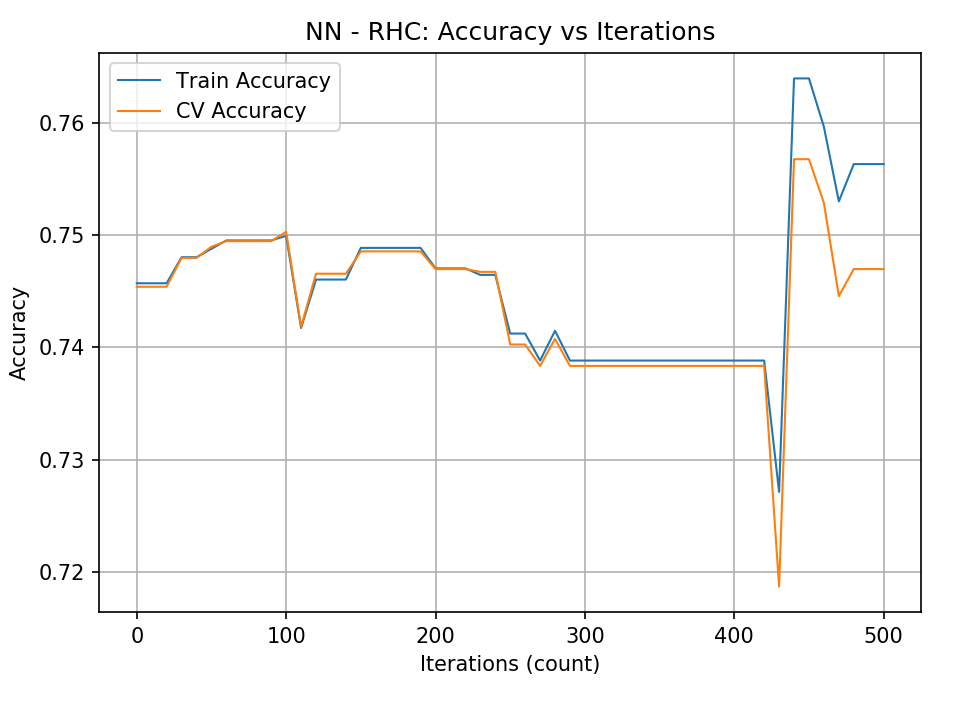
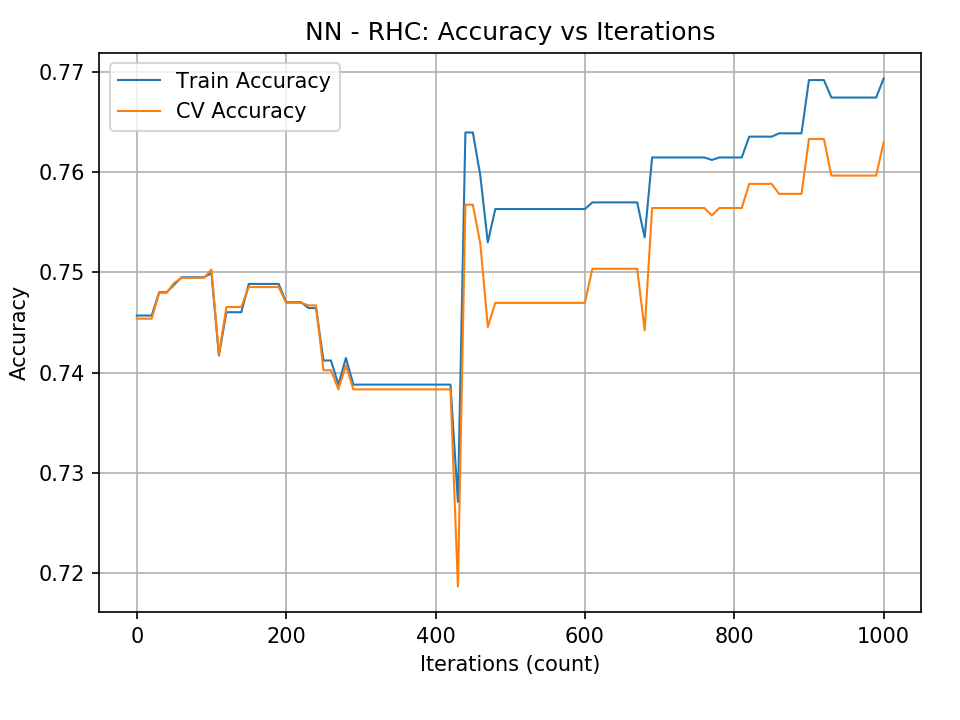
fixing plots

diff --git a/solution/copied_code/plotting.py b/solution/copied_code/plotting.py
@@ -183,7 +183,7 @@ def plot_mimic_data(problem_name, mimic_files, output_dir, nn_curve=False):
 
             if nn_curve:
                 # For the NN problem convergence happens relatively early (except for SA)
-                main_df = main_df[main_df.index <= 500]
+                main_df = main_df[main_df.index <= 1000]
                 p = plot_data('{} - MIMIC {} {}: {} vs Iterations'.format(problem_name, samples, keep,
                                                                           y.capitalize()), main_df[y],
                               sorted(mimic_files[samples][keep].keys()),
@@ -247,7 +247,7 @@ def plot_ga_data(problem_name, ga_files, output_dir, nn_curve=False):
             if nn_curve:
                 # For the NN problem convergence happens relatively early (except for SA)
                 main_df[mate] = reduce(lambda x, y: pd.merge(x, y, on='iterations'), main_df[mate])
-                main_df[mate] = main_df[mate][main_df[mate].index <= 500]
+                main_df[mate] = main_df[mate][main_df[mate].index <= 1000]
                 p = plot_data('{} - GA {} {}: {} vs Iterations'.format(problem_name, pop, mate,
                                                                        y_label), main_df[mate],
                               sorted(ga_files[pop][mate].keys()),
@@ -348,7 +348,7 @@ def plot_rhc_data(problem_name, rhc_files, output_dir, nn_curve=False):
 
     if nn_curve:
         # For the NN problem convergence happens relatively early (except for SA)
-        main_df = main_df[main_df.index <= 500]
+        main_df = main_df[main_df.index <= 1000]
         p = plot_data('{} - RHC: {} vs Iterations'.format(problem_name, y_label), main_df,
                       None, nn_curve=nn_curve,
                       y_label=y_label)
@@ -394,7 +394,7 @@ def plot_backprop_data(problem_name, backprop_files, output_dir, nn_curve=False)
 
     if nn_curve:
         # For the NN problem convergence happens relatively early (except for SA)
-        main_df = main_df[main_df.index <= 500]
+        main_df = main_df[main_df.index <= 1000]
         p = plot_data('{} - Backprop: {} vs Iterations'.format(problem_name, y_label), main_df,
                       None, nn_curve=nn_curve,
                       y_label=y_label)
@@ -455,7 +455,7 @@ def plot_best_curves(problem_name, files, output_dir, nn_curve=False):
         main_df = [list(k.values())[0] for k in main_df]
         main_df = reduce(lambda x, y: pd.merge(x, y, on='iterations'), main_df)
         # For the NN problem convergence happens relatively early (except for SA)
-        main_df = main_df[main_df.index <= 500]
+        main_df = main_df[main_df.index <= 1000]
     else:
         p = plot_data('{} - Best: {} vs Iterations'.format(problem_name, 'Function Evals'), main_df['fevals'],
                       prefixes, nn_curve=nn_curve, validate_only=nn_curve,
@@ -666,7 +666,7 @@ if __name__ == '__main__':
 
                 df = read_data_file(file, nn_curve=nn_curve)
                 if nn_curve:
-                    df = df[df.index <= 500]
+                    df = df[df.index <= 1001]
 
                 if nn_curve:
                     max_index = df['f1_tst'].idxmax()
